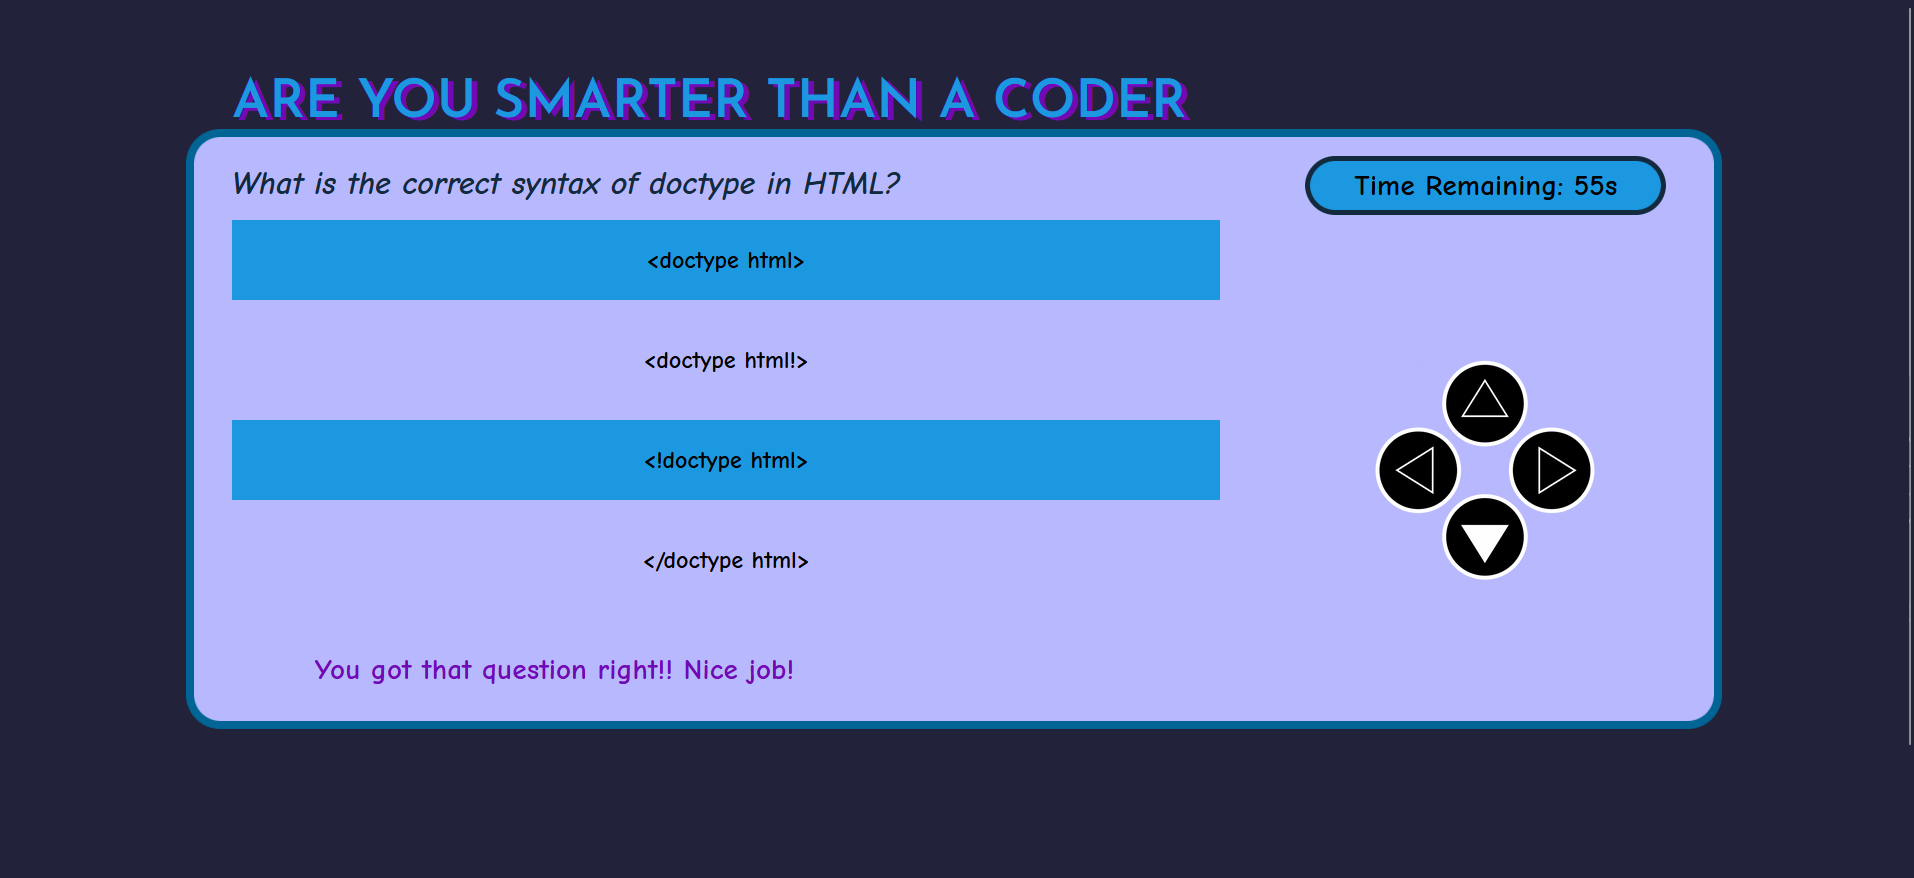
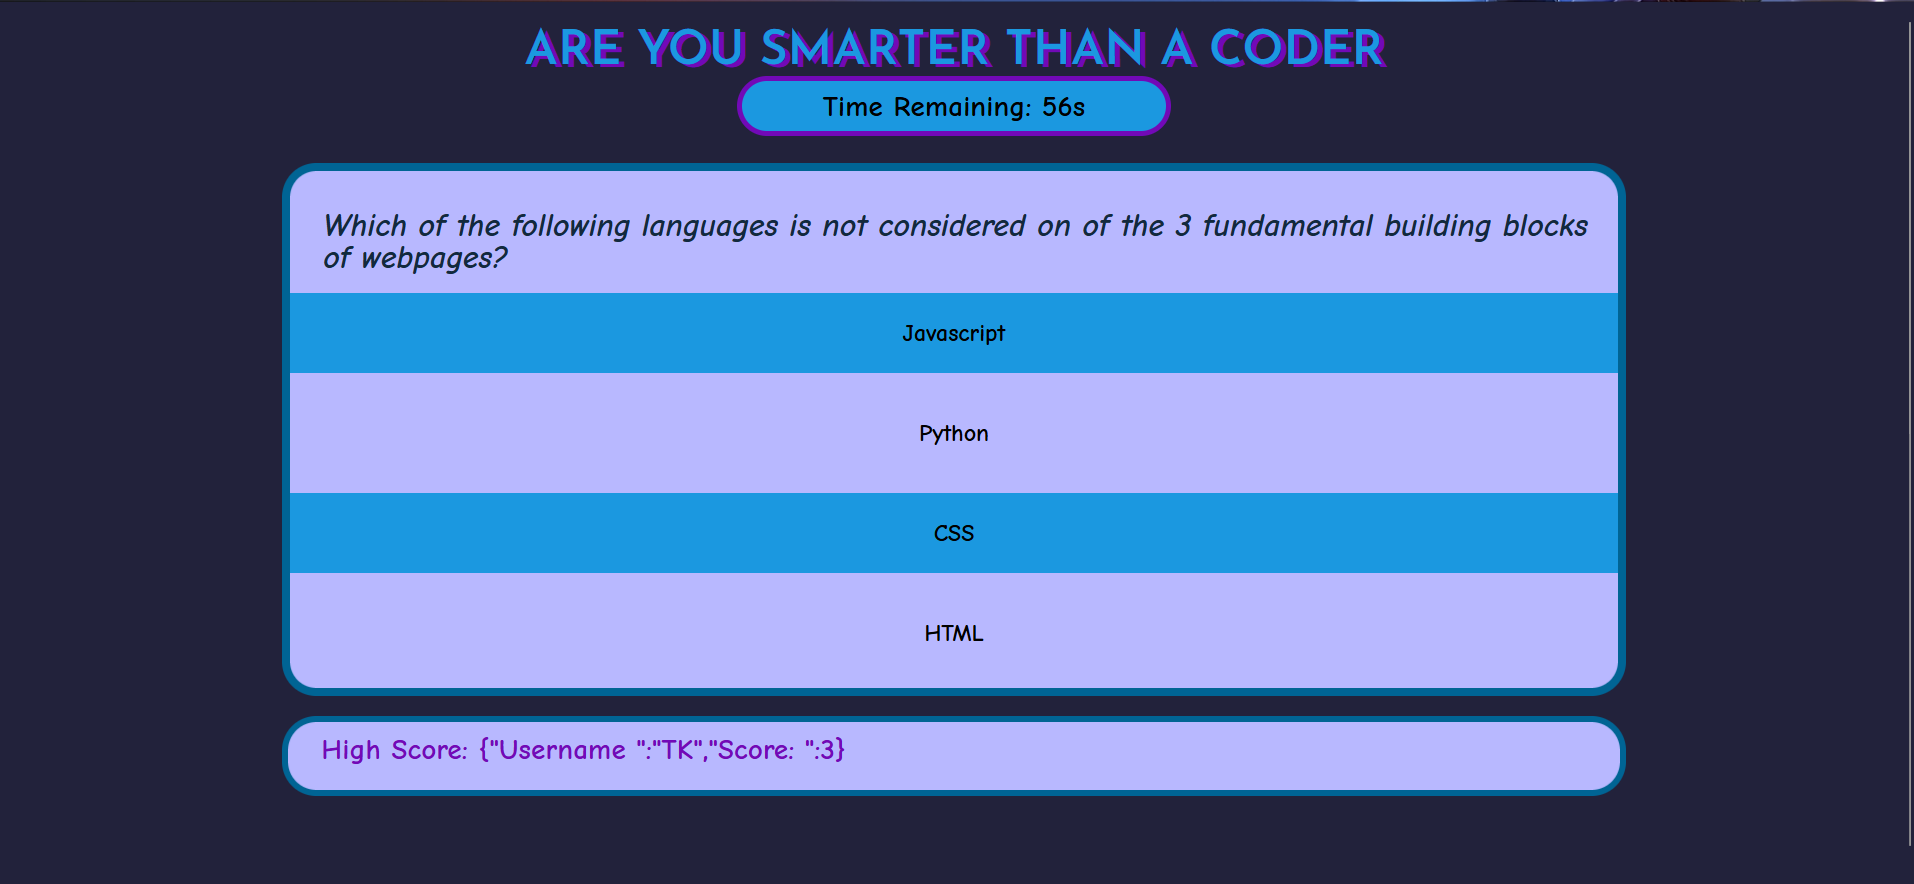
changed webpage css for better viewing on mobile

diff --git a/assets/css/style.css b/assets/css/style.css
@@ -21,55 +21,33 @@ h1 {
     text-align: center;
     text-shadow: 4px 2px var(--purple);
     background-color: transparent;
-    font-size: 40px;
-    position: absolute;
-    top: -45px;
+    font-size: 36px;
     font-family: 'Josefin Sans', sans-serif;
-
+    margin-top: 25px;
     ;
 }
 
-
-main {
-    width: 80%;
-    height: 450px;
-    margin: 0 auto; 
-    margin-top: 100px;
+#game-box {
+    height: 400px;
+    width: 70%;
+    padding-top: 2%;
+    margin: 0 auto;
     border: 6px solid var(--dark);
     border-radius: 25px; 
     background-color: var(--light);
-    display: flex;
-    justify-content: space-around;
 }
 
-#game-box {
-    flex-basis: 65%;
-    padding-top: 2%;
-    /* border: 5px solid black; */
-    background-color: transparent;
-    position: relative;
-}
-
-#game-aside {
-    flex-basis: 25%;
-    position: relative;
-    display: flex;
-    flex-direction: column;
-    justify-content: flex-start;
-    align-items: center;
-    position: relative; 
-    background-color: transparent;
-}
 
 #question {
     color: var(--accent);
     font-size: 24px;
     font-style: oblique;
+    padding-left: 25px;
 }
 
 #question-box {
-    width: 95%;
-    margin-top: 5%;
+    width: 80%;
+    margin: 0 auto;
     /* border: 5px solid black;  */
     background-color: transparent;
     height: 90%;
@@ -77,21 +55,20 @@ main {
 }
 
 #text-channel {
-    width: 95%;
-    /* border: 5px solid black;  */
-    background-color: transparent;
-    height: 60px;
-    position: absolute;
-    /* border: 5px solid var(--dark); */
-    /* border-radius: 25px; */
-    bottom: 0;
-    right: 0;
     padding-top: 10px;
-    padding-left: 25px; 
+    padding-left: 25px;
+    background-color: var(--light);
+    height: 60px;
+    width: 70%;
+    border: 5px solid var(--dark);
+    border-radius: 25px; 
     color: var(--purple);
     font-size: 22px;
+    margin: 0 auto;
+    margin-top: 15px;
 
 }
+
 
 li {
     text-align: center;
@@ -110,70 +87,46 @@ li {
 
 
 #countdown {
-    width: 95%; 
-    height: 10%;
-    margin: 5% auto; 
-    padding-top: 7px;
-    border: 4px solid var(--accent);
+    width: 325px; 
+    height: 45px;
+    margin: 0 auto; 
+    padding-top: 8px;
+    border: 4px solid var(--purple);
     background-color: var(--accent2);
     border-radius: 50px;
     text-align: center;
     font-size: 22px;
 }
 
-#game-decor {
-    margin-top: 25px;
-    height: 70%;
-    background-color: transparent;
+#buttons {
     display: flex;
-    justify-content: center;
-    align-items: center;
+    justify-content: flex-end;
+    margin-top: 10px;
+    margin-bottom: 10px;
+    margin-right: 15%;
 }
 
-#game-decor img {
-    display: block;
-    width: 60%;
-    height: auto;
-    background-color: transparent;
-
-}
-
-#game-start {
-    width: 40%;
-    height: 10%;
-    margin: 0 auto; 
-    border: 4px solid whitesmoke;
+#start,
+    #score {
     background-color: var(--purple);
+    border: 5px solid whitesmoke;
     border-radius: 50px;
-    text-align: center;
-    position: absolute;
-    bottom: 35px;
-    right: -10px;
-    font-size: 33px;
+    height: 50px;
     color: whitesmoke;
-    font-weight: 900;
     cursor: grab;
+    font-style: initial;
+}
+
+#start {
+    width: 125px;
+    font-size: 40px;
 }
 
 #score {
     width: 200px;
-    height: 80px;
-    margin: 0 auto; 
-    border: 4px solid whitesmoke;
-    background-color: var(--accent2);
-    border-radius: 50px;
-    text-align: center;
-    position: absolute;
-    top: 295px;
-    left: 72.5px; 
-    font-size: 28px;
-    color: whitesmoke;
-    font-weight: 900;
-    cursor: grab;
-    display:none;
+    font-size:18px;
+    display: none;
 }
-
-
     
 
 

diff --git a/index.html b/index.html
@@ -12,13 +12,20 @@
 
 <body>
     <header>
-    
+        <h1>ARE YOU SMARTER THAN A CODER</h1>
+        <div id="countdown">
+            <p>Time Remaining:</p>
+        </div>
     </header>
 
 
     <main> 
+        <div id="buttons">
+            <button id="start">START</button>
+            <button id="score">SAVE YOUR SCORE?</button>
+        </div>
+
         <div id= "game-box">
-            <h1>ARE YOU SMARTER THAN A CODER</h1>
             <div id="question-box">
                 <h2 id="question">Sample Question</h2>
                 <ul id="options">
@@ -32,23 +39,15 @@
                     </li>
                 </ul>
             </div>
-            <div id="text-channel">
-            </div>
-            <button id="score">SAVE YOUR SCORE?</button>
+
         </div>
 
+        
+        
+        <div id="text-channel">
 
-        <div id= "game-aside">
-            <div id="countdown">
-                
-            </div>
-            <div id ="game-decor">
-                <img src="./assets/game-buttons.png"/>
-            </div>
-            <button id="game-start">
-                START 
-            </button>
         </div>
+    
     </main>
 
 

diff --git a/assets/js/script.js b/assets/js/script.js
@@ -1,7 +1,7 @@
 // creating variables that define different elements used through the following code 
 
 var timerElement = document.querySelector('#countdown');
-var startbutton = document.querySelector('#game-start');
+var startbutton = document.querySelector('#start');
 var savescore = document.querySelector('#score');
 var gameboxelement = document.querySelector('#question-box');
 var questionElement = document.querySelector('#question');

diff --git a/README.md b/README.md
@@ -1,6 +1,9 @@
 # Are-you-Smarter-than-a-Coder
 
+### Before Pressing Play
 ![Webpage Preview](./assets/preview.png)
+
+### After Pressing Play
 ![Preview of launched App](./assets/preview1.png)
 [Deployment Link](https://tykervella.github.io/Are-you-Smarter-than-a-Coder/)
 
